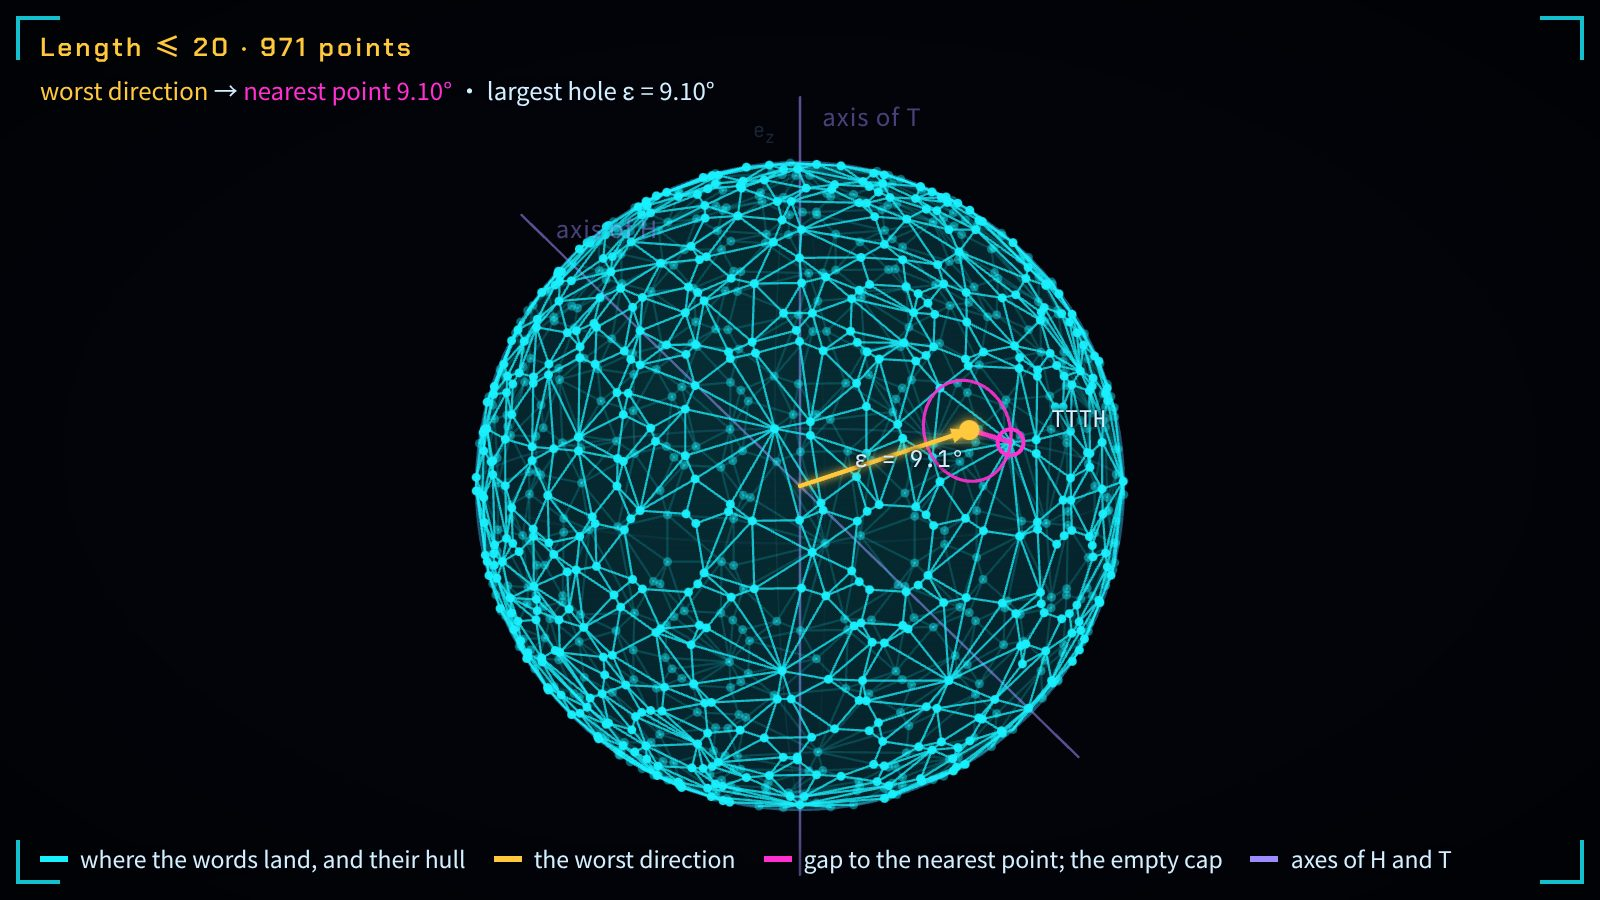
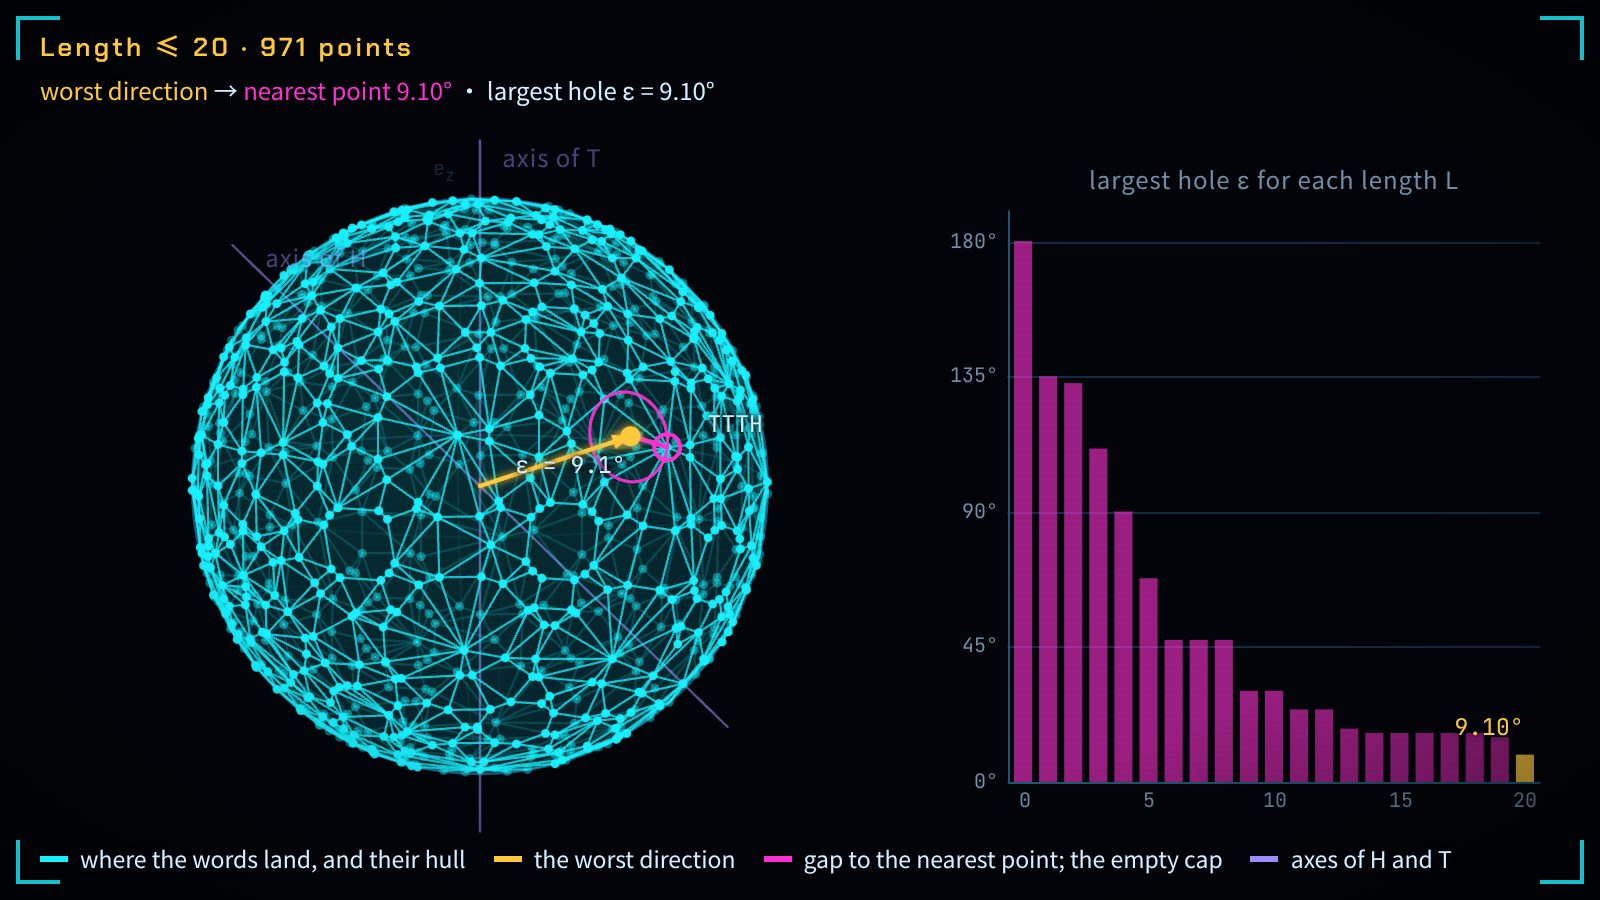
gate-word-polytope: the shrink card shows the staircase of the largest hole on the stage
The caption speaks of the covering radius computed for every length, but the cited still only
showed the sphere. The card now draws the epsilon_L staircase beside the sphere (current length
in amber); captions and card note name it. The test checks the bars against its own covering
radii and the caption's numbers against the page.

diff --git a/books/quantum-geometry/viz/gate-word-polytope/main.js b/books/quantum-geometry/viz/gate-word-polytope/main.js
@@ -102,7 +102,7 @@
   });
 
   /* ---------- state ---------- */
-  const S = { mode: 'free', draw: 'chord', theta: 110, phi: 200 };
+  const S = { mode: 'free', draw: 'chord', theta: 110, phi: 200, chart: false };   // chart: the ε_L staircase on the stage (the shrink card)
   const level = () => Math.min(LMAX, Math.floor(clock.t + 1e-9));
   const target = () => (S.mode === 'worst' ? WORST[level()].dir : v3.sph(S.theta * DEG, S.phi * DEG));
   function nearest(l, n) {
@@ -122,7 +122,7 @@
 
   /* ---------- stage ---------- */
   let grab = false;
-  const stage = kit.stage3($('stage'), {
+  const SO = {
     canvas: $('cv'), radius: TRV.thumbMode ? 0.4 : 0.36, cy: 0.54, yaw: -0.9, pitch: 0.42,
     onChange: () => paint(),
     onPick: (ev, st) => { grab = st.near(ev, target()) < 22; return grab; },
@@ -135,9 +135,19 @@
       leave(); paint();
     },
     onDrop: () => { grab = false; }
-  });
+  };
+  const stage = kit.stage3($('stage'), SO);
+  /** Where the staircase goes when it shares the stage: right of the sphere, or below it on a narrow stage. */
+  function chartBox() {
+    const W = $('cv').clientWidth, H = $('cv').clientHeight, narrow = W < 560;
+    const top = Math.max(56, $('hudBig').parentElement.getBoundingClientRect().bottom - $('stage').getBoundingClientRect().top + 30), bottom = H - Math.max(24, $('legend').offsetHeight + 22);
+    return narrow ? { narrow, x: 14, y: H * 0.6, w: W - 28, h: bottom - H * 0.6 } : { narrow, x: W * 0.58, y: top, w: W * 0.4 - 14, h: bottom - top };
+  }
   function drawStage() {
     const st = stage, l = level(), n = target(), near = nearest(l, n), W = WORST[l], sh = shape(l), thumb = TRV.thumbMode;
+    // with the staircase on the stage the sphere moves aside to make room for it
+    const cb = S.chart && !thumb ? chartBox() : null;
+    SO.cx = cb && !cb.narrow ? 0.3 : 0.5; SO.cy = cb && cb.narrow ? 0.36 : 0.54; SO.radius = cb ? (cb.narrow ? 0.26 : 0.32) : thumb ? 0.4 : 0.36;
     st.begin();
     st.sphere(1, { lat: [0], lon: 2, shade: 0.05, alpha: thumb ? 0.6 : 0.32 });
     // the two axes: T turns about e_z by 45°, H turns about (e_x + e_z)/√2 by 180°
@@ -184,7 +194,17 @@
       st.tag('tgt', n, S.mode === 'worst' ? `ε = ${fix(W.eps / DEG, 1)}°` : `${fix(near.angle / DEG, 1)}°`, 'num c-am', { dx: -right * 30, dy: 14 });
       st.tag('N', [0, 0, 1.08], 'e<sub>z</sub>', 'tick', { dx: -18, dy: -6 });
     }
+    if (cb) drawChart(cb, l);
     st.end();
+  }
+  /** The staircase on the stage: ε_L for every length computed by the page (magenta), the current length amber. */
+  function drawChart(b, l) {
+    const W = $('cv').clientWidth, H = $('cv').clientHeight;
+    const g = kit.plot($('cv'), { x: [-0.6, LMAX + 0.6], y: [0, 190], pad: [b.x + 40, W - b.x - b.w, b.y + 22, H - b.y - b.h + 20], clear: false });
+    g.axes({ yTicks: [0, 45, 90, 135, 180], yFmt: (v) => `${v}°`, xTicks: [0, 5, 10, 15, 20] });
+    WORST.forEach((w, k) => g.rect(k - 0.36, 0, k + 0.36, w.eps / DEG, k === l ? P.amber : P.magenta, { alpha: k === l ? 0.9 : 0.6 }));
+    stage.tag('chT', [b.x + 40 + (b.w - 40) / 2, b.y + 6], L('每个门长 L 的最大缺口 ε', 'largest hole ε for each length L'), 'raw', { screen: true });
+    stage.tag('chV', [g.X(l) - (l > LMAX - 3 ? 18 : 0), g.Y(WORST[l].eps / DEG) - 14], `<span class="c-am">${fix(WORST[l].eps / DEG, 2)}°</span>`, 'num', { screen: true });
   }
 
   /* ---------- strip: ε_L against L ---------- */
@@ -234,7 +254,7 @@
   });
 
   /* ---------- controls ---------- */
-  const leave = () => { cards.mark(null); stopAt = null; };
+  const leave = () => { cards.mark(null); stopAt = null; S.chart = false; };
   const fT = kit.field($('theta'), { fmt: (v) => `${fix(v, 0)}°`, onInput: (v) => { leave(); S.mode = 'free'; modeChips.set('free', true); S.theta = v; paint(); } });
   const fF = kit.field($('phi'), { fmt: (v) => `${fix(v, 0)}°`, onInput: (v) => { leave(); S.mode = 'free'; modeChips.set('free', true); S.phi = v; paint(); } });
   const modeChips = kit.chips($('modeChips'), 'mode', (v) => { leave(); S.mode = v; paint(); });
@@ -247,20 +267,20 @@
     three: { L: 3, mode: 'free', theta: 90, phi: 180, draw: 'chord', view: [0.3, 0.38] },
     six: { L: 6, mode: 'worst', theta: 110, phi: 200, draw: 'geo', aim: [0.3, -0.12] },
     nearest: { L: 10, mode: 'free', theta: 110, phi: 200, draw: 'chord', view: [1.0, -0.12] },
-    shrink: { L: 20, mode: 'worst', theta: 110, phi: 200, draw: 'chord', aim: [0.55, -0.2] }
+    shrink: { L: 20, mode: 'worst', theta: 110, phi: 200, draw: 'chord', aim: [0.55, -0.2], chart: true }
   };
   const NOTES = {
     one: ['门长 1：北极是 T 的不动点，只有 H 把它送到 e<sub>x</sub>。两个青色的点只连成一条线段；琥珀色的目标就落在 e<sub>x</sub> 上，门字 H 精确命中，没有品红的缺口。紫色是 H 与 T 的转轴。', 'Length 1: the north pole is fixed by T, and only H carries it to e<sub>x</sub>. The two cyan points span just a segment; the amber target sits on e<sub>x</sub>, the word H hits it exactly, and there is no magenta gap. Violet marks the axes of H and T.'],
     three: ['门长 3：五个青色的顶点第一次围成立体，但它们都在 x ≥ 0、z ≥ 0 的一侧，球心在外面。琥珀色的目标指向 −e<sub>x</sub>：最近的顶点在 90° 外，品红的径向间隙从球心一直到球皮，整整为 1。', 'Length 3: the five cyan vertices enclose a solid for the first time, but all of them lie where x ≥ 0 and z ≥ 0, so the centre is outside. The amber target points to −e<sub>x</sub>: the nearest vertex is 90° away, and the magenta radial gap runs all the way from the centre to the sphere, a full 1.'],
     six: ['门长 6：19 个点的凸包已经包住球心，把棱沿半径投到球皮上，就成了一张青色的大圆弧网格。网格里最大的一个洞仍是品红虚线圈住的空球冠，半径 ε = 47.27°，琥珀色的箭头指着它的中心。', 'Length 6: the hull of 19 points now holds the centre, and projecting its edges radially onto the sphere gives a mesh of cyan great-circle arcs. The largest hole in the mesh is still the empty cap circled in dashed magenta, of radius ε = 47.27°, with the amber arrow at its centre.'],
     nearest: ['门长 10、64 个点：琥珀色的目标在 θ = 110°、φ = 200°。离它最近的可达点由门字 HTHTTTTTH 到达，相隔 17.04°（品红的弧）；平直多面体在这个方向的高度是 0.956，离球皮还差 0.044（品红的半径段）。', 'Length 10, 64 points: the amber target is at θ = 110°, φ = 200°. The nearest reachable point is reached by the word HTHTTTTTH, 17.04° away (the magenta arc); in this direction the flat polytope reaches height 0.956, 0.044 short of the sphere (the magenta piece of radius).'],
-    shrink: ['门长从 0 走到 20：青色的点一层层变密，品红虚线圈出的最大空球冠一级级缩小，从 180° 缩到 9.10°；有几层一点也不缩。到 L = 20 有 971 个点，洞仍然在。', 'The length runs from 0 to 20: the cyan points grow denser layer by layer, and the largest empty cap circled in dashed magenta shrinks step by step from 180° to 9.10°; at some layers it does not shrink at all. At L = 20 there are 971 points, and the hole is still there.']
+    shrink: ['门长从 0 走到 20：球上青色的点一层层变密，品红虚线圈出的最大空球冠一级级缩小。旁边的台阶是每个门长的最大缺口 ε：从 180° 缩到 9.10°，有几层一点也不缩，琥珀色的是当前门长。到 L = 20 有 971 个点，洞仍然在。', 'The length runs from 0 to 20: the cyan points on the sphere grow denser layer by layer, and the largest empty cap circled in dashed magenta shrinks. The staircase beside it is the largest hole ε at each length: from 180° down to 9.10°, not shrinking at all at some layers, with the current length in amber. At L = 20 there are 971 points, and the hole is still there.']
   };
   let booting = true;
   function applyPreset(id) {
     const p = PRESETS[id];
     clock.pause(); stopAt = null;
-    S.mode = p.mode; S.theta = p.theta; S.phi = p.phi; S.draw = p.draw;
+    S.mode = p.mode; S.theta = p.theta; S.phi = p.phi; S.draw = p.draw; S.chart = !!p.chart;
     modeChips.set(S.mode, true); drawChips.set(S.draw, true); fT.set(p.theta); fF.set(p.phi);
     // worst-direction cards look at the worst direction of their length, a little from the side
     const aimAt = (d, o) => [Math.atan2(-d[0], -d[1]) + o[0], clamp(Math.asin(clamp(d[2], -1, 1)) + o[1], -1.4, 1.4)];
@@ -286,7 +306,7 @@
       return { L: l, t: clock.t, max: clock.max, playing: clock.playing, preset: cards.current, mode: S.mode, draw: S.draw, theta: S.theta, phi: S.phi,
         target: n, count: UPTO[l], points: PTS.slice(0, UPTO[l]).map((q) => ({ p: q.p, word: q.word })),
         faces: HULLS[l] ? HULLS[l].map((f) => ({ v: f.v.slice(), n: f.n, d: f.d })) : null,
-        eps: WORST[l].eps / DEG, worst: WORST[l].dir, shape: shape(l), nearest: { p: PTS[near.i].p, word: PTS[near.i].word, angle: near.angle / DEG }, h: near.h, gap: 1 - near.h,
+        chart: S.chart, eps: WORST[l].eps / DEG, worst: WORST[l].dir, shape: shape(l), nearest: { p: PTS[near.i].p, word: PTS[near.i].word, angle: near.angle / DEG }, h: near.h, gap: 1 - near.h,
         epsAll: WORST.map((w) => w.eps / DEG), counts: UPTO.slice() };
     },
     seek: (t) => { clock.pause(); stopAt = null; clock.set(t); },

diff --git a/books/quantum-geometry/en/ch16-qsvt-walks-and-compilation.md b/books/quantum-geometry/en/ch16-qsvt-walks-and-compilation.md
@@ -344,7 +344,7 @@ Each row satisfies $0 < q \le 1$, $(2n+1)\arcsin\sqrt{r} = \pi/2$, and $2n + 1 \
 :::
 
 ::: {.viz src="gate-word-polytope" preset="shrink" height="500"}
-**The largest hole shrinks step by step and never closes.** The length runs from $0$ to $20$: the cyan reachable points grow denser layer by layer, and the largest empty cap circled in dashed magenta shrinks from $180^\circ$ to $\varepsilon_{20} = 9.10^\circ$, not at all at some layers; at $L = 20$ there are $971$ points, and the hole is still there. The staircase is the covering radius the page computes for each $L$, with no asymptotic rate fitted; the asymptotic word length is the literature result of [@rem-solovay-kitaev-literature].
+**The largest hole shrinks step by step and never closes.** The length runs from $0$ to $20$: the cyan reachable points grow denser layer by layer, and the largest empty cap circled in dashed magenta shrinks from $180^\circ$ to $\varepsilon_{20} = 9.10^\circ$, not at all at some layers; at $L = 20$ there are $971$ points, and the hole is still there. The magenta staircase beside the sphere is the covering radius $\varepsilon_L$ the page computes for each $L$ (amber at $L = 20$), with no asymptotic rate fitted; the asymptotic word length is the literature result of [@rem-solovay-kitaev-literature].
 :::
 
 ::: {.viz src="gate-word-polytope" height="560"}

diff --git a/books/quantum-geometry/zh/ch16-qsvt-walks-and-compilation.md b/books/quantum-geometry/zh/ch16-qsvt-walks-and-compilation.md
@@ -432,7 +432,7 @@ $$
 :::
 
 ::: {.viz src="gate-word-polytope" preset="shrink" height="500"}
-**最大的缺口一级级缩小，却补不上。** 门长从 $0$ 走到 $20$：青色的可达点一层层变密，品红虚线圈出的最大空球冠从 $180^\circ$ 缩到 $\varepsilon_{20} = 9.10^\circ$，有几层一点也不缩；到 $L = 20$ 有 $971$ 个点，洞仍然在。曲线是页面对每个 $L$ 实算的覆盖半径，不拟合任何渐近速率；渐近字长是 [@rem-solovay-kitaev-literature] 的文献结果。
+**最大的缺口一级级缩小，却补不上。** 门长从 $0$ 走到 $20$：青色的可达点一层层变密，品红虚线圈出的最大空球冠从 $180^\circ$ 缩到 $\varepsilon_{20} = 9.10^\circ$，有几层一点也不缩；到 $L = 20$ 有 $971$ 个点，洞仍然在。旁边品红的台阶是页面对每个 $L$ 实算的覆盖半径 $\varepsilon_L$（琥珀色的是 $L = 20$），不拟合任何渐近速率；渐近字长是 [@rem-solovay-kitaev-literature] 的文献结果。
 :::
 
 ::: {.viz src="gate-word-polytope" height="560"}
